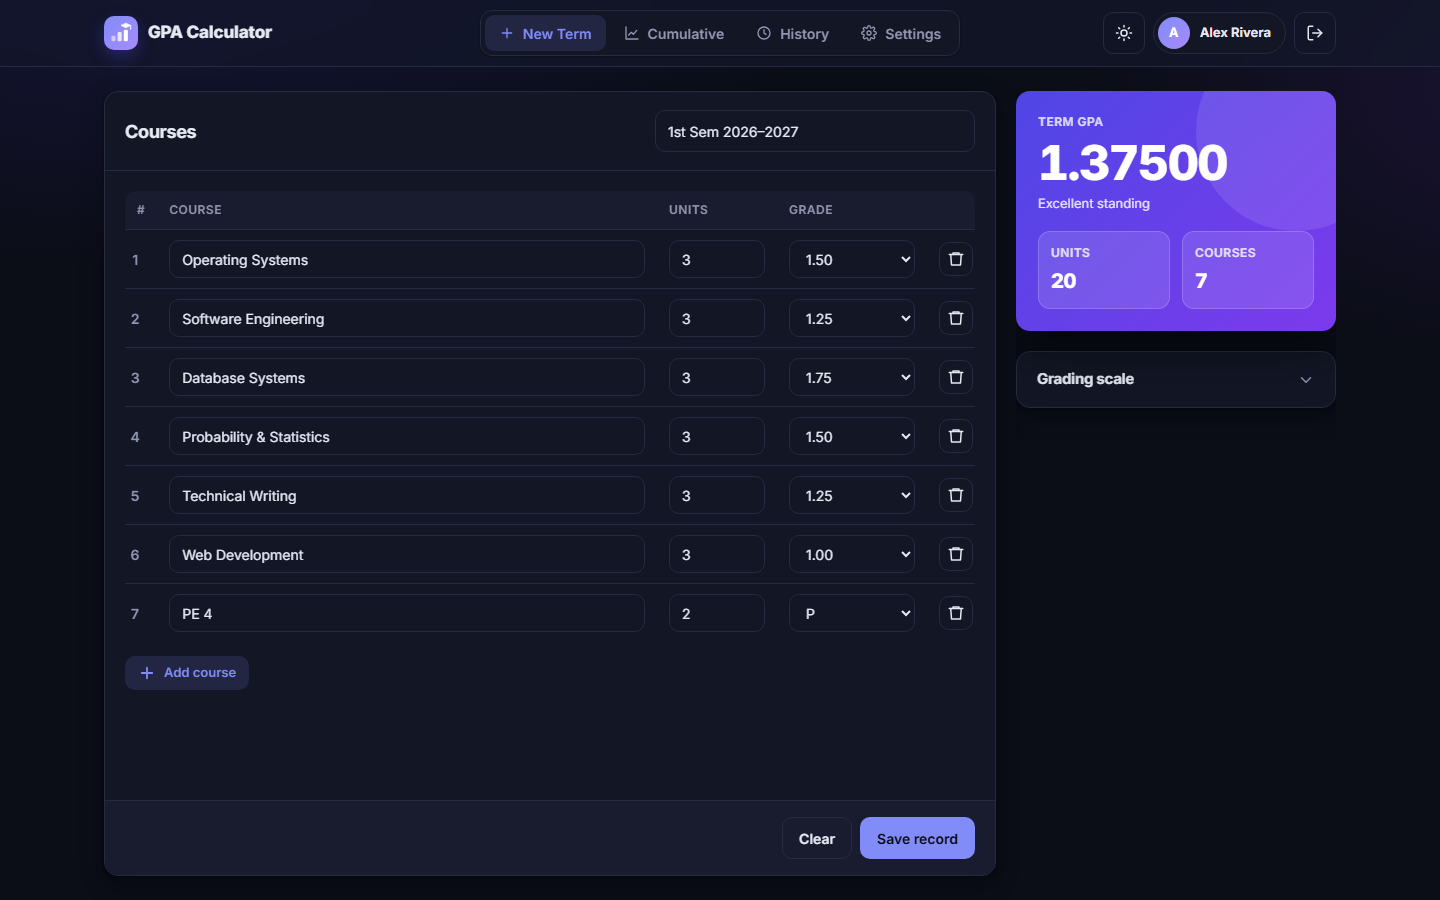
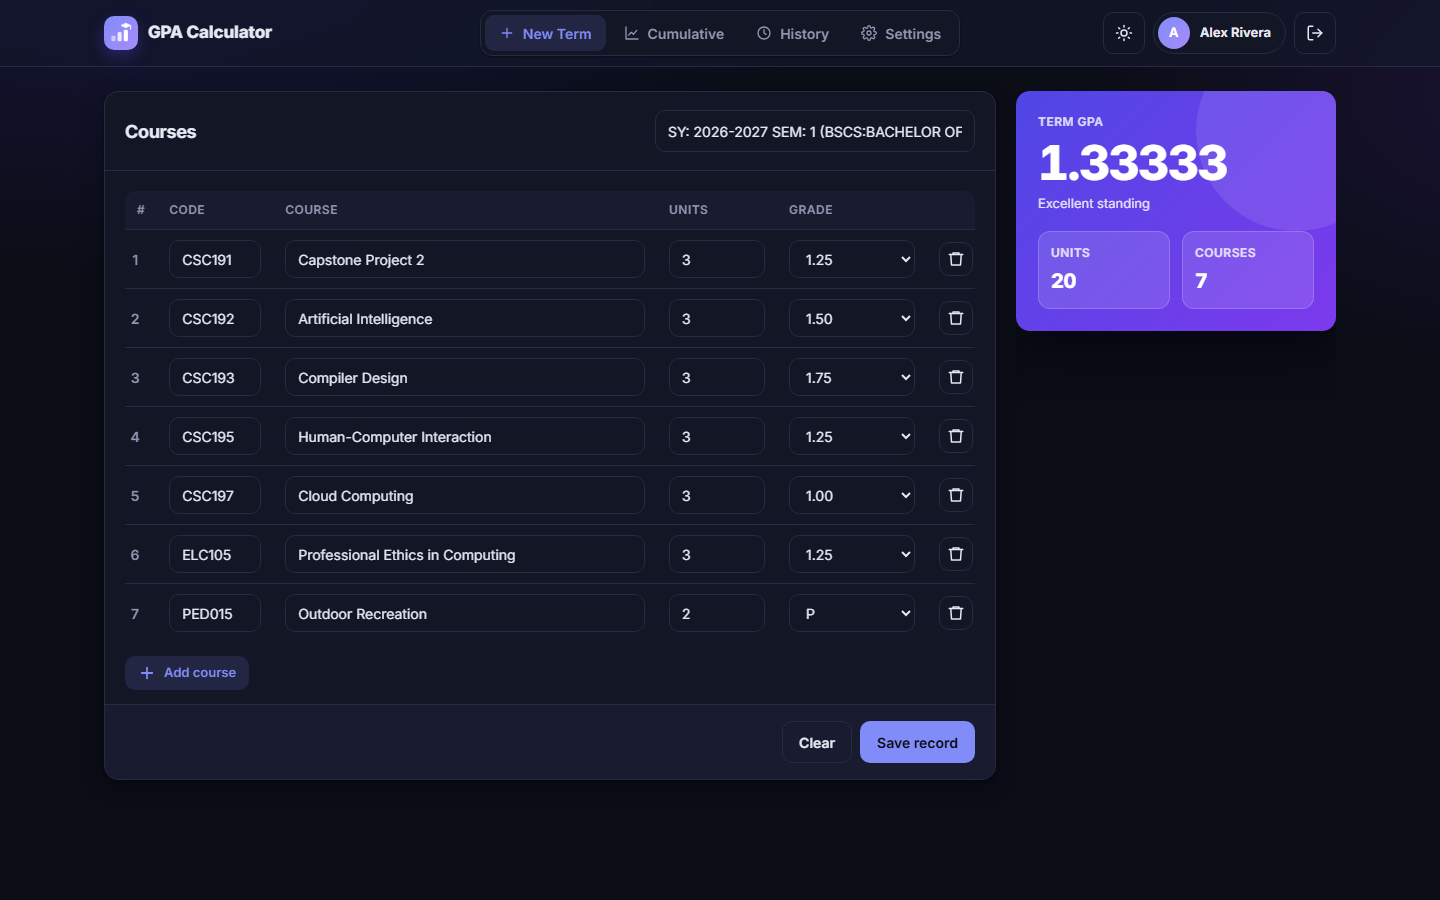
docs: retake dashboard screenshots for the new layouts (v1.6.2)
- History: grading scale on the left
- Cumulative: three tabs, no breakdown panel
- New Term (light and dark): Code column filled from a MyIIT paste
- Phone: New Term with codes and dark History

diff --git a/README.md b/README.md
@@ -14,7 +14,7 @@
 ![google-auth-library](https://img.shields.io/badge/google--auth--library-11.3.2-blue?style=flat)
 ![dotenv](https://img.shields.io/badge/dotenv-16.6.1-blue?style=flat)
 
-![Version](https://img.shields.io/badge/version-1.6.1-green?style=flat)
+![Version](https://img.shields.io/badge/version-1.6.2-green?style=flat)
 ![Tests](https://img.shields.io/badge/tests-26%20passing-brightgreen?style=flat)
 ![License](https://img.shields.io/badge/license-source--available-orange?style=flat)
 ![Platform](https://img.shields.io/badge/platform-web%20%7C%20vercel-informational?style=flat)
